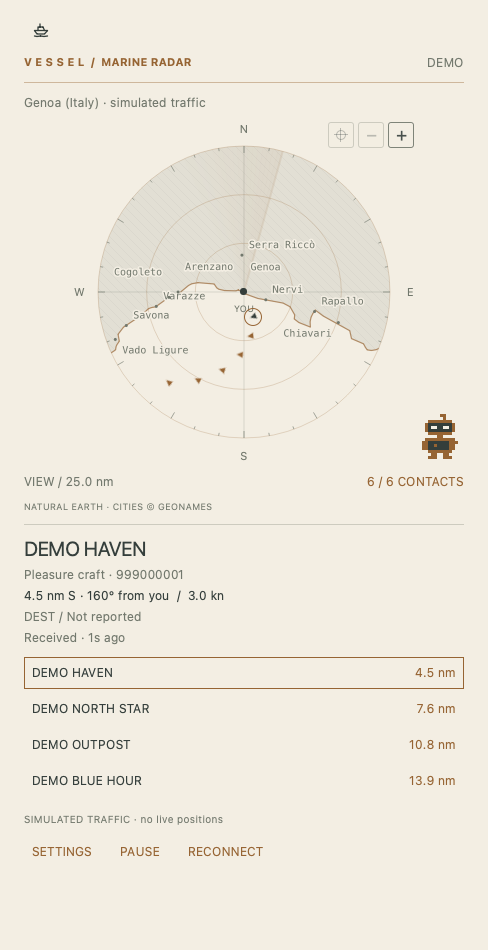
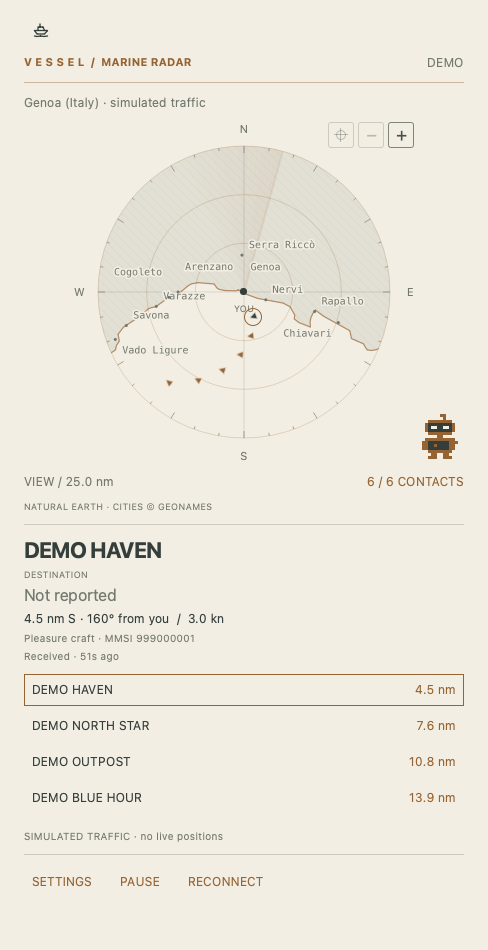
Keep panel controls fixed and reveal selected vessels on the radar

Changed region(s): [[0.0307, 0.5495, 0.5225, 0.9463], [0.8299, 0.7021, 0.9529, 0.8547], [0.4303, 0.6105, 0.4611, 0.6716]]

diff --git a/Widget.qml b/Widget.qml
@@ -28,12 +28,56 @@ BarWidget {
     function close() { opened = false; configuring = false; }
     function toggle() { if (!opened && report.status === "SETUP") configuring = true; opened = !opened; }
     function refresh() { VesselService.restart(); }
+    function revealShip(ship) {
+        selectedMmsi = ship.mmsi;
+        radar.focusShip(ship);
+        // A list click must reveal the chart as well as the geographic contact.
+        viewport.contentY = 0;
+    }
+    onConfiguringChanged: viewport.contentY = 0
     // Attach once per monitor while the singleton owns the shared network process.
     onSettingsChanged: if (attached) VesselService.configure(settings)
     Component.onCompleted: { attached = true; VesselService.attach(settings); }
     Component.onDestruction: if (attached) VesselService.detach()
     // Age labels need a clock only while the details panel is visible.
     Timer { interval: 1000; running: root.opened; repeat: true; onTriggered: root.now = Date.now() }
+
+    component Label: Text {
+        color: Color.foreground; font.family: root.family; font.pixelSize: 12
+        textFormat: Text.PlainText
+    }
+    // Consistent hit-area heights and shared styling keep all panel
+    // commands consistent, including the reception toggle.
+    component Action: Rectangle {
+        id: action
+        property string text
+        signal triggered()
+        implicitWidth: actionLabel.implicitWidth + 16
+        implicitHeight: 30
+        radius: 3
+        color: "transparent"
+        border.width: 1
+        border.color: activeFocus || pointer.containsMouse ? Color.accent : "transparent"
+        activeFocusOnTab: true
+        Accessible.role: Accessible.Button
+        Accessible.name: text
+        Accessible.onPressAction: triggered()
+        Label {
+            id: actionLabel
+            anchors.centerIn: parent
+            text: action.text; color: Color.accent
+        }
+        Keys.onReturnPressed: triggered()
+        Keys.onSpacePressed: triggered()
+        Keys.onEscapePressed: root.close()
+        MouseArea {
+            id: pointer
+            anchors.fill: parent
+            hoverEnabled: true
+            cursorShape: Qt.PointingHandCursor
+            onClicked: action.triggered()
+        }
+    }
 
     WidgetButton {
         id: button
@@ -61,16 +105,19 @@ BarWidget {
         open: root.opened
         focusTarget: keys
         contentWidth: fittedContentWidth(Style.space(440))
-        contentHeight: fittedContentHeight(root.configuring ? form.implicitHeight : body.implicitHeight)
+        contentHeight: fittedContentHeight(root.configuring ? form.implicitHeight : body.implicitHeight + footer.height + 12)
         PanelKeyCatcher {
             id: keys
             anchors.fill: parent
             blocked: root.configuring || radar.zoomControlsFocused || settingsAction.activeFocus || receptionAction.activeFocus || reconnectAction.activeFocus
             onCloseRequested: root.close()
             onReturnRequested: root.refresh()
-            // Allow the whole panel to scroll when the available screen height is limited.
+            // Only the body scrolls; reception controls remain reachable on short screens.
             Flickable {
+                id: viewport
+                objectName: "panelViewport"
                 anchors.fill: parent
+                anchors.bottomMargin: root.configuring ? 0 : footer.height + 12
                 contentHeight: root.configuring ? form.implicitHeight : body.implicitHeight
                 clip: true
                 boundsBehavior: Flickable.StopAtBounds
@@ -87,10 +134,6 @@ BarWidget {
                     visible: !root.configuring
                     width: parent.width
                     spacing: 12
-                    component Label: Text {
-                        color: Color.foreground; font.family: root.family; font.pixelSize: 12
-                        textFormat: Text.PlainText
-                    }
                     Row {
                         width: parent.width
                         Label { width: parent.width * 0.6; text: "V E S S E L  /  MARINE RADAR"; color: Color.accent; font.bold: true; font.pixelSize: 11 }
@@ -131,14 +174,30 @@ BarWidget {
                     Rectangle { width: parent.width; height: 1; color: Color.muted; opacity: 0.3 }
                     Column {
                         width: parent.width; spacing: 6; visible: root.selectedShip !== null
-                        Label { width: parent.width; elide: Text.ElideRight; font.pixelSize: 20; text: root.selectedShip ? (root.selectedShip.name || "MMSI " + root.selectedShip.mmsi) : "" }
-                        Label { text: root.selectedShip ? root.selectedShip.type + " · " + root.selectedShip.mmsi : ""; color: Color.muted }
+                        Label {
+                            width: parent.width; wrapMode: Text.WordWrap
+                            font.pixelSize: 22; font.bold: true
+                            text: root.selectedShip ? (root.selectedShip.name || "MMSI " + root.selectedShip.mmsi) : ""
+                        }
+                        Label { text: "DESTINATION"; font.pixelSize: 9; color: Color.muted }
+                        Label {
+                            width: parent.width; wrapMode: Text.WordWrap; font.pixelSize: 16
+                            text: root.selectedShip ? (root.selectedShip.destination || "Not reported") : ""
+                            color: root.selectedShip && root.selectedShip.destination ? Color.accent : Color.muted
+                        }
                         Label {
                             width: parent.width; wrapMode: Text.WordWrap
                             text: root.selectedShip ? Model.distance(root.selectedShip.distance, root.unit) + " " + Model.compass(root.selectedShip.bearing) + " · " + Math.round(root.selectedShip.bearing) + "° from you" + "  /  " + (root.selectedShip.speed === null ? "Speed unknown" : root.selectedShip.speed.toFixed(1) + " kn") : ""
                         }
-                        Label { width: parent.width; wrapMode: Text.WordWrap; text: root.selectedShip ? "DEST / " + (root.selectedShip.destination || "Not reported") : ""; color: Color.muted }
-                        Label { text: root.selectedShip ? root.selectedShip.timeSource + " · " + Model.age(root.selectedShip.lastSeen, root.now) + (root.selectedShip.stale ? " · OLD POSITION" : "") : ""; color: root.selectedShip && root.selectedShip.stale ? Color.accent : Color.muted }
+                        Label {
+                            width: parent.width; wrapMode: Text.WordWrap; font.pixelSize: 10; color: Color.muted
+                            text: root.selectedShip ? root.selectedShip.type + " · MMSI " + root.selectedShip.mmsi : ""
+                        }
+                        Label {
+                            width: parent.width; wrapMode: Text.WordWrap; font.pixelSize: 10
+                            text: root.selectedShip ? root.selectedShip.timeSource + " · " + Model.age(root.selectedShip.lastSeen, root.now) + (root.selectedShip.stale ? " · OLD POSITION" : "") : ""
+                            color: root.selectedShip && root.selectedShip.stale ? Color.accent : Color.muted
+                        }
                     }
                     Label {
                         width: parent.width; wrapMode: Text.WordWrap; visible: root.ships.length === 0
@@ -158,6 +217,7 @@ BarWidget {
                         spacing: 4
                         delegate: Rectangle {
                             required property var modelData
+                            objectName: "vessel-" + modelData.mmsi
                             width: ListView.view.width; height: 32
                             color: Color.background
                             border.width: root.selectedShip && root.selectedShip.mmsi === modelData.mmsi ? 1 : 0
@@ -165,60 +225,40 @@ BarWidget {
                             opacity: modelData.stale ? 0.5 : 1
                             Label { anchors.left: parent.left; anchors.leftMargin: 8; anchors.verticalCenter: parent.verticalCenter; width: parent.width * 0.65; elide: Text.ElideRight; text: modelData.name || modelData.mmsi }
                             Label { anchors.right: parent.right; anchors.rightMargin: 8; anchors.verticalCenter: parent.verticalCenter; text: Model.distance(modelData.distance, root.unit); color: Color.accent }
-                            MouseArea { anchors.fill: parent; cursorShape: Qt.PointingHandCursor; onClicked: root.selectedMmsi = modelData.mmsi }
+                            MouseArea { anchors.fill: parent; cursorShape: Qt.PointingHandCursor; onClicked: root.revealShip(modelData) }
                         }
                     }
                     Label { width: parent.width; wrapMode: Text.WordWrap; text: root.report.demo ? "SIMULATED TRAFFIC · no live positions" : "AISStream · received vessels only · not for navigation"; font.pixelSize: 10; color: Color.muted }
-                    // Consistent hit-area heights and shared styling keep all panel
-                    // commands consistent, including the reception toggle.
-                    component Action: Rectangle {
-                        id: action
-                        property string text
-                        signal triggered()
-                        implicitWidth: actionLabel.implicitWidth + 16
-                        implicitHeight: 30
-                        radius: 3
-                        color: "transparent"
-                        border.width: 1
-                        border.color: activeFocus || pointer.containsMouse ? Color.accent : "transparent"
-                        activeFocusOnTab: true
-                        Accessible.role: Accessible.Button
-                        Accessible.name: text
-                        Accessible.onPressAction: triggered()
-                        Label {
-                            id: actionLabel
-                            anchors.centerIn: parent
-                            text: action.text; color: Color.accent
-                        }
-                        Keys.onReturnPressed: triggered()
-                        Keys.onSpacePressed: triggered()
-                        Keys.onEscapePressed: root.close()
-                        MouseArea {
-                            id: pointer
-                            anchors.fill: parent
-                            hoverEnabled: true
-                            cursorShape: Qt.PointingHandCursor
-                            onClicked: action.triggered()
-                        }
+
+                }
+            }
+            Item {
+                id: footer
+                objectName: "panelFooter"
+                anchors.left: parent.left
+                anchors.right: parent.right
+                anchors.bottom: parent.bottom
+                height: 43
+                visible: !root.configuring
+                Rectangle { width: parent.width; height: 1; color: Color.muted; opacity: 0.3 }
+                Row {
+                    anchors.bottom: parent.bottom
+                    spacing: 12
+                    Action {
+                        id: settingsAction
+                        text: "SETTINGS"
+                        onTriggered: { root.configuring = true; VesselService.loadSettings(); }
                     }
-                    Row {
-                        spacing: 12
-                        Action {
-                            id: settingsAction
-                            text: "SETTINGS"
-                            onTriggered: { root.configuring = true; VesselService.loadSettings(); }
-                        }
-                        Action {
-                            id: receptionAction
-                            objectName: "pauseReception"
-                            text: VesselService.paused ? "RESUME" : "PAUSE"
-                            onTriggered: VesselService.togglePaused()
-                        }
-                        Action {
-                            id: reconnectAction
-                            text: "RECONNECT"
-                            onTriggered: root.refresh()
-                        }
+                    Action {
+                        id: receptionAction
+                        objectName: "pauseReception"
+                        text: VesselService.paused ? "RESUME" : "PAUSE"
+                        onTriggered: VesselService.togglePaused()
+                    }
+                    Action {
+                        id: reconnectAction
+                        text: "RECONNECT"
+                        onTriggered: root.refresh()
                     }
                 }
             }

diff --git a/Model.js b/Model.js
@@ -1,7 +1,8 @@
 // All chart coordinates share the same margin; the outer space holds compass labels.
 function radarRadius(size) { return Math.max(1, size / 2 - 24); }
 function inView(position, size, margin) {
-    return Math.hypot(position.x - size / 2, position.y - size / 2) <= radarRadius(size) - (margin || 0);
+    // Absorb floating-point rounding at the range ring, especially at high zoom.
+    return Math.hypot(position.x - size / 2, position.y - size / 2) <= radarRadius(size) - (margin || 0) + 0.000001;
 }
 
 // Backend timestamps use seconds; QML Date.now() uses milliseconds.
@@ -88,4 +89,11 @@ function boundedCenter(x, y, zoom) {
     var limit = Math.max(0, 1 - 1 / zoom), length = Math.hypot(x, y);
     var scale = length > limit && length > 0 ? limit / length : 1;
     return {x: x * scale, y: y * scale};
+}
+
+// A vessel's position in coverage-radius units, for explicit list-to-map navigation.
+function shipCenter(ship, coverageRadius) {
+    var angle = ship.bearing * Math.PI / 180;
+    var range = ship.distance / coverageRadius;
+    return {x: Math.sin(angle) * range, y: -Math.cos(angle) * range};
 }

diff --git a/Radar.qml b/Radar.qml
@@ -28,6 +28,12 @@ Item {
         var p = Model.boundedCenter(x, y, zoom);
         viewCenter = Qt.point(p.x, p.y);
     }
+    // Recenter only on an explicit list selection, never on each AIS update.
+    // Preserve zoom; the coverage constraint keeps the loaded map under the view.
+    function focusShip(ship) {
+        var center = Model.shipCenter(ship, radiusNm);
+        setCenter(center.x, center.y);
+    }
     function recenter() { viewCenter = Qt.point(0, 0); }
     onZoomChanged: setCenter(viewCenter.x, viewCenter.y)
     onBasemapChanged: recenter()

diff --git a/README.md b/README.md
@@ -142,7 +142,9 @@ In **Settings**, select **Offline demo · Genoa (Italy)**, then **SAVE & CONNECT
 Six clearly labelled simulated boats appear around Genoa (Italy); demo mode makes no
 network requests. Uncheck demo and save to switch to live traffic.
 
-Click a contact on the radar or list to select it. Escape closes the radar panel;
+Click a contact on the radar or list to select it. Selecting from the list brings
+the radar back into view and recenters it on the vessel, preserving your zoom
+and respecting the loaded coverage boundary. Escape closes the radar panel;
 Enter or a middle-click on the bar reconnects. Settings supports normal text
 editing and a **CANCEL** button.
 
@@ -177,7 +179,7 @@ unavailable or throttle requests; coordinates remain a fallback. Set
 The radar sweep is a faint visual effect beneath the markers, not a source of
 position updates. Its texture is painted once and rotated on the render thread;
 it stops when the panel is closed or Settings is open. **SETTINGS**, **PAUSE / RESUME** and
-**RECONNECT** share a single footer row. The bar shows only the boat icon.
+**RECONNECT** share a fixed footer that stays visible while the panel scrolls. The bar shows only the boat icon.
 
 Reconnect after travelling to refresh the location. The radius always uses
 nautical miles, even when display units are kilometres (1 nm = 1.852 km).
